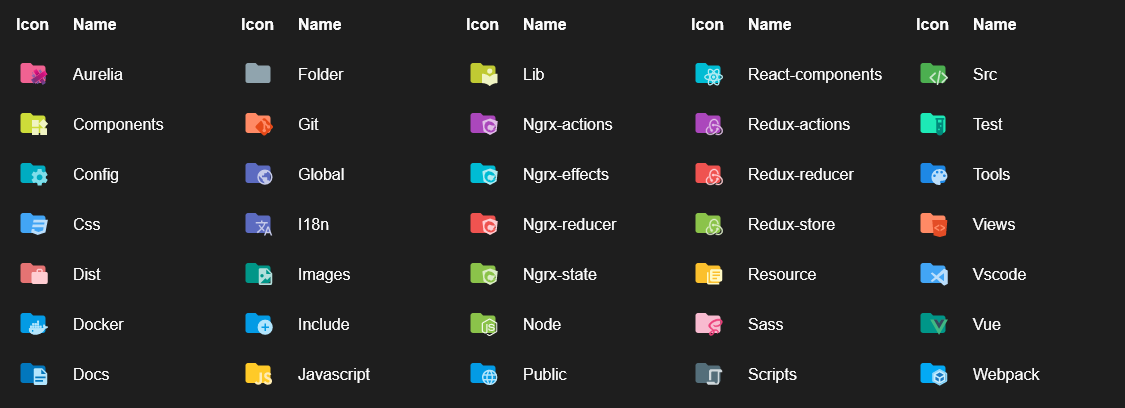
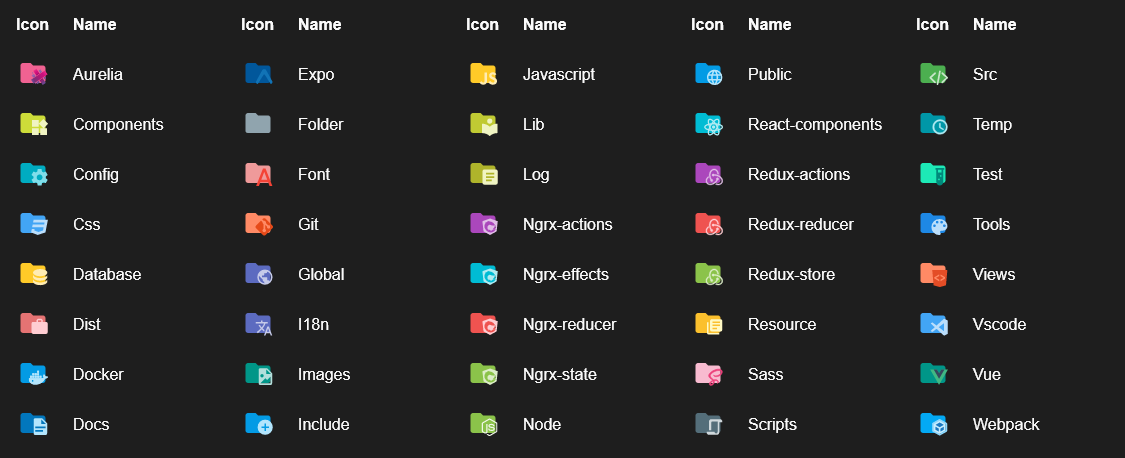
updated changelog and version

diff --git a/scripts/preview/index.ts b/scripts/preview/index.ts
@@ -25,5 +25,5 @@ const folderThemes = filterDuplicates(folderIcons.map(theme => {
     return [].concat(...folders);
 }).reduce((a, b) => a.concat(b))).map(i => ({ iconName: i, label: i.replace('folder-', '') }));
 
-generatePreview('fileIcons', basicFileIcons, 5, []);
-generatePreview('folderIcons', folderThemes, 5, ['folder-expo', 'folder-font']);
+generatePreview('fileIcons', basicFileIcons, 5, ['virtual', 'music', 'todo', 'movie']);
+generatePreview('folderIcons', folderThemes, 5, []);

diff --git a/CHANGELOG.md b/CHANGELOG.md
@@ -1,12 +1,28 @@
 # Change Log
 
+## 3.1.0 (2017-11-26)
+### New features
+- Customizable language icon associations
+
+### New icons
+- PHP Elephant [[issue #67](https://github.com/PKief/vscode-material-icon-theme/issues/67)]
+- Blink [[@melMass](https://github.com/melMass) in [#166](https://github.com/PKief/vscode-material-icon-theme/pull/166)]
+- Cuda [[issue #159](https://github.com/PKief/vscode-material-icon-theme/issues/159)]
+- temp folder
+- log folder
+- log file icon
+- database folder
+
+### Added translations
+- Added Brazilian Portuguese translation [[@alefesouza](https://github.com/alefesouza) in [#158](https://github.com/PKief/vscode-material-icon-theme/pull/158)]
+
 ## 3.0.0 (2017-11-12)
 ### New features
 - Change color of default folder icons
 - Icon Packs that enable additional icons
 - Hide or show the arrows next to folder icons
-- Customize file icon associations
-- Customize folder icon associations
+- Customizable file icon associations
+- Customizable folder icon associations
 
 ### Introduction of icon packs
 An icon pack allows you to add additional icons with additional file associations to the icon theme. The feature was added because some icons are very specific and not relevant for all developers.

diff --git a/README.md b/README.md
@@ -54,8 +54,6 @@ With the `*.[extension]` pattern you can define custom file icon associations. F
 }
 ```
 
-You can see the available file icon names (e.g. 'angular') in the overview above.
-
 ### Folder associations
 
 The following configuration can customize the folder icons. It is also possible to overwrite existing associations and create nice combinations. For example you could change the folder theme to "classic" and define icons only for the folder names you like.
@@ -67,7 +65,22 @@ The following configuration can customize the folder icons. It is also possible 
 }
 ```
 
-You can see the available folder icon names (e.g. 'src') in the overview above.
+### Language associations
+
+With the following configuration you can customize the language icons. It is also possible to overwrite existing associations.
+
+```json
+"material-icon-theme.languages.associations": {
+    "languageId": "iconName",
+    "json": "json"
+}
+```
+
+Available language ids: 
+
+https://code.visualstudio.com/docs/languages/identifiers#_known-language-identifiers
+
+You can see the available icon names in the overview above.
 
 ## One-click activation
 
